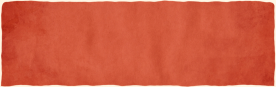
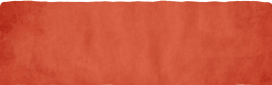
Rework: use Figma's torn-paper edges for panels, cards and stat boxes
Replaces the code-drawn borders with the real 3x art. The cream background Figma rendered behind each export is keyed out to true transparency (drop shadows kept). Panels are stored as a transparent PNG frame (torn edge and stroke) plus a JPEG fill clipped just inside the edge, which keeps sizes small. ParchmentPanel draws them as three slices so corners and top/bottom edges keep their true proportions and only the middle stretches. Codex uses the book (2242:596) and card (2242:605) art; Ledger uses the sheet art (2167:598) for every panel. Ability boxes follow Figma's structure: torn paper body (2167:686) with the red header (2167:658) over its top. Portrait placeholder (2167:647) is now a transparent PNG; the 3 dp ring stays.

Changed region(s): [[0.0, 0.0, 1.0, 1.0]]

diff --git a/src/screens/LedgerScreen.tsx b/src/screens/LedgerScreen.tsx
@@ -10,7 +10,6 @@ import {
   View,
   type StyleProp,
   type TextStyle,
-  type ViewStyle,
 } from "react-native";
 import * as ImagePicker from "expo-image-picker";
 import { StatusBar } from "expo-status-bar";
@@ -44,39 +43,51 @@ import { QuillIcon } from "../components/icons";
 import { colors, fonts, stroke, useAppFonts, useScale } from "../theme";
 
 const parchment = require("../../assets/images/backgrounds/parchment.png");
-const portraitArt = require("../../assets/images/ledger/portrait-placeholder.jpg");
+const portraitArt = require("../../assets/images/ledger/portrait-placeholder.png");
 const statHead = require("../../assets/images/ledger/stat-header.png");
-const statBody = require("../../assets/images/ledger/stat-body.jpg");
+const statBody = require("../../assets/images/ledger/stat-body.png");
 
-// Red textured header over a framed paper body, used for ability scores and
-// for the six ability scores.
+// Figma ability box (Group 873): torn paper body (2167:686, with its drop
+// shadow) and the red textured header (2167:658) laid over its top edge.
+// Art sizes are 3x pixels; the paper itself is 279 x 276 of the 292 x 296 body
+// export, the rest is the torn edge overhang and the shadow.
+const BODY = { w: 292, h: 296, paperX: 7, paperY: 1, paperW: 279, paperH: 276 };
+const HEAD = { w: 272, h: 85 };
+
 function StatFrame({
   label,
   children,
-  headHeight,
-  bodyHeight,
+  width,
   labelSize,
-  style,
 }: {
   label: string;
   children: ReactNode;
-  headHeight: number;
-  bodyHeight: number;
+  width: number;
   labelSize: number;
-  style?: StyleProp<ViewStyle>;
 }) {
+  const k = width / BODY.paperW;
+  const height = BODY.paperH * k;
+  const headH = width * (HEAD.h / HEAD.w);
   return (
-    <View style={[styles.statFrame, style]}>
-      <View style={[styles.statHead, { height: headHeight }]}>
+    <View style={{ width, height }}>
+      <Image
+        source={statBody}
+        style={{
+          position: "absolute",
+          left: -BODY.paperX * k,
+          top: -BODY.paperY * k,
+          width: BODY.w * k,
+          height: BODY.h * k,
+        }}
+        resizeMode="stretch"
+      />
+      <View style={[styles.statHead, { height: headH }]}>
         <Image source={statHead} style={styles.fill} resizeMode="stretch" />
         <Text style={[styles.statLabel, { fontSize: labelSize }]} numberOfLines={1}>
           {label}
         </Text>
       </View>
-      <View style={[styles.statBody, { height: bodyHeight }]}>
-        <Image source={statBody} style={styles.fill} resizeMode="stretch" />
-        {children}
-      </View>
+      <View style={styles.statValueBox}>{children}</View>
     </View>
   );
 }
@@ -397,8 +408,6 @@ export default function LedgerScreen({ onBack, onOpen }: Props) {
   const sheetPad = s(16);
   const statGap = s(14);
   const boxW = Math.floor((width - pagePad * 2 - sheetPad * 2 - 2 - statGap * 2) / 3);
-  const headH = Math.round(boxW * (28 / 91));
-  const bodyH = Math.round(boxW * (62 / 91));
   const edit = s(44);
   const portrait = s(152);
 
@@ -467,7 +476,7 @@ export default function LedgerScreen({ onBack, onOpen }: Props) {
     placeholder: string,
     empty: string,
   ) => (
-    <ParchmentPanel variant="card" style={{ marginTop: s(10) }} contentStyle={{ padding: s(16) }}>
+    <ParchmentPanel variant="ledger" style={{ marginTop: s(10) }} contentStyle={{ padding: s(16) }}>
       <SectionTitle size={fs(18)}>{title}</SectionTitle>
       {editing ? (
         <TextInput
@@ -497,7 +506,7 @@ export default function LedgerScreen({ onBack, onOpen }: Props) {
         contentContainerStyle={{ paddingHorizontal: pagePad, paddingTop: s(4), paddingBottom: s(24) }}
         keyboardShouldPersistTaps="handled"
       >
-        <ParchmentPanel contentStyle={{ paddingHorizontal: sheetPad, paddingTop: s(12), paddingBottom: s(14) }}>
+        <ParchmentPanel variant="ledger" contentStyle={{ paddingHorizontal: sheetPad, paddingTop: s(12), paddingBottom: s(14) }}>
           <View style={styles.nameRow}>
             <View style={{ width: edit }} />
             {editing ? (
@@ -649,14 +658,7 @@ export default function LedgerScreen({ onBack, onOpen }: Props) {
 
           <View style={[styles.stats, { columnGap: statGap, rowGap: s(14) }]}>
             {STATS.map(([key, label]) => (
-              <StatFrame
-                key={key}
-                label={label}
-                headHeight={headH}
-                bodyHeight={bodyH}
-                labelSize={fs(15)}
-                style={{ width: boxW }}
-              >
+              <StatFrame key={key} label={label} width={boxW} labelSize={fs(15)}>
                 {editing ? (
                   <TextInput
                     style={[styles.statInput, { fontSize: fs(26) }]}
@@ -672,7 +674,7 @@ export default function LedgerScreen({ onBack, onOpen }: Props) {
           </View>
         </ParchmentPanel>
 
-        <ParchmentPanel style={{ marginTop: s(10) }} contentStyle={{ padding: s(18), minHeight: s(120) }}>
+        <ParchmentPanel variant="ledger" style={{ marginTop: s(10) }} contentStyle={{ padding: s(18), minHeight: s(120) }}>
           <SectionTitle center size={fs(18)}>
             Background
           </SectionTitle>
@@ -693,7 +695,7 @@ export default function LedgerScreen({ onBack, onOpen }: Props) {
           )}
         </ParchmentPanel>
 
-        <ParchmentPanel variant="card" style={{ marginTop: s(10) }} contentStyle={{ padding: s(16) }}>
+        <ParchmentPanel variant="ledger" style={{ marginTop: s(10) }} contentStyle={{ padding: s(16) }}>
           <SectionTitle size={fs(18)}>Skills</SectionTitle>
           {editing ? (
             <View style={[styles.chips, { gap: s(6) }]}>
@@ -716,7 +718,7 @@ export default function LedgerScreen({ onBack, onOpen }: Props) {
         {textSection("Languages", draft.languages, "languages", "Common, Elvish", "None listed.")}
         {textSection("Features", draft.features, "features", "Class features, fighting style, spells", "None yet.")}
 
-        <ParchmentPanel variant="card" style={{ marginTop: s(10) }} contentStyle={{ padding: s(16) }}>
+        <ParchmentPanel variant="ledger" style={{ marginTop: s(10) }} contentStyle={{ padding: s(16) }}>
           <SectionTitle size={fs(18)}>Equipment</SectionTitle>
           {gear.length === 0 ? (
             <Text style={[styles.listItem, styles.listEmpty, { fontSize: fs(16), lineHeight: fs(26) }]}>Nothing carried.</Text>
@@ -725,7 +727,7 @@ export default function LedgerScreen({ onBack, onOpen }: Props) {
           {editing ? addRow(gearName, setGearName, "Add equipment", addGear) : null}
         </ParchmentPanel>
 
-        <ParchmentPanel variant="card" style={{ marginTop: s(10) }} contentStyle={{ padding: s(16) }}>
+        <ParchmentPanel variant="ledger" style={{ marginTop: s(10) }} contentStyle={{ padding: s(16) }}>
           <SectionTitle size={fs(18)}>Traits</SectionTitle>
           {traits.length === 0 ? (
             <Text style={[styles.listItem, styles.listEmpty, { fontSize: fs(16), lineHeight: fs(26) }]}>No traits yet.</Text>
@@ -828,30 +830,16 @@ const styles = StyleSheet.create({
   hpSlash: { fontFamily: fonts.body, color: colors.ink, fontSize: 18 },
   rule: { height: 1, backgroundColor: colors.ink, marginTop: 10, marginBottom: 12 },
   stats: { flexDirection: "row", flexWrap: "wrap", justifyContent: "center" },
-  statFrame: {
-    shadowColor: "#000",
-    shadowOpacity: 0.2,
-    shadowRadius: 2,
-    shadowOffset: { width: 0, height: 2 },
-  },
   statHead: {
-    borderTopLeftRadius: 2,
-    borderTopRightRadius: 2,
-    overflow: "hidden",
+    position: "absolute",
+    top: 0,
+    left: 0,
+    right: 0,
     alignItems: "center",
     justifyContent: "center",
   },
   statLabel: { fontFamily: fonts.heading, color: colors.statLabel, textAlign: "center", letterSpacing: 0.6 },
-  statBody: {
-    borderWidth: 1,
-    borderTopWidth: 0,
-    borderColor: colors.statStroke,
-    overflow: "hidden",
-    alignItems: "center",
-    justifyContent: "center",
-    elevation: 2,
-    backgroundColor: "#F2ECE3",
-  },
+  statValueBox: { flex: 1, marginTop: "31%", alignItems: "center", justifyContent: "center" },
   statValue: { fontFamily: fonts.stat, color: colors.ink, textAlign: "center", includeFontPadding: false },
   statInput: {
     fontFamily: fonts.stat,

diff --git a/src/components/ParchmentPanel.tsx b/src/components/ParchmentPanel.tsx
@@ -1,43 +1,131 @@
-import type { ReactNode } from "react";
-import { Image, StyleSheet, View, type StyleProp, type ViewStyle } from "react-native";
-import { colors, radius } from "../theme";
+import { useState, type ReactNode } from "react";
+import {
+  Image,
+  StyleSheet,
+  View,
+  type ImageSourcePropType,
+  type LayoutChangeEvent,
+  type StyleProp,
+  type ViewStyle,
+} from "react-native";
 
-const textures = {
-  panel: require("../../assets/images/panels/panel-parchment.jpg"),
-  card: require("../../assets/images/panels/card-paper.jpg"),
-};
+// Torn-paper panels exported from Figma at 3x. Each one is split in two files
+// to keep the size down:
+//  - frame: PNG with real transparency, holding the torn edge, stroke and a
+//    band of texture just inside it (the middle is empty);
+//  - fill: JPEG of the same art, drawn underneath and clipped just inside the
+//    edge so its cream export background never shows.
+// Width/height are the art size in dp (pixels / 3).
+type Art = { frame: ImageSourcePropType; fill: ImageSourcePropType; width: number; height: number };
 
-const strokes = {
-  panel: colors.panelStroke,
-  card: colors.cardStroke,
-};
+const ART = {
+  // Codex book, Figma 2242:596
+  codex: {
+    frame: require("../../assets/images/panels/panel-codex-frame.png"),
+    fill: require("../../assets/images/panels/panel-codex-fill.jpg"),
+    width: 963 / 3,
+    height: 1818 / 3,
+  },
+  // Codex note card, Figma 2242:605
+  card: {
+    frame: require("../../assets/images/panels/card-codex-frame.png"),
+    fill: require("../../assets/images/panels/card-codex-fill.jpg"),
+    width: 898 / 3,
+    height: 427 / 3,
+  },
+  // Ledger sheet and section panels, Figma 2167:598
+  ledger: {
+    frame: require("../../assets/images/panels/panel-ledger-frame.png"),
+    fill: require("../../assets/images/panels/panel-ledger-fill.jpg"),
+    width: 1010 / 3,
+    height: 1555 / 3,
+  },
+} satisfies Record<string, Art>;
+
+// Top and bottom bands (in art dp) drawn at their true proportions. Only the
+// middle band stretches vertically, so corners and the top/bottom torn edges
+// never distort. Width always scales evenly with the panel width.
+const CAP = 14;
+// How far inside the outer edge the JPEG fill starts. The frame's opaque band
+// covers this seam (the torn edge is at most about 2 dp deep).
+const FILL_INSET = 3;
+
+type Size = { w: number; h: number };
+
+function Slices({ source, art, size }: { source: ImageSourcePropType; art: Art; size: Size }) {
+  const { w, h } = size;
+  const k = w / art.width; // dp on screen per art dp, applied evenly in width
+  const cap = Math.min(CAP * k, h / 2); // on-screen cap height
+  const capArt = cap / k;
+  const midH = Math.max(0, h - cap * 2);
+  const midArt = art.height - capArt * 2;
+  const sy = midArt > 0 ? midH / midArt : 1; // vertical stretch for the middle band only
+  const fullH = art.height * k;
+
+  return (
+    <>
+      <View style={[styles.slice, { top: 0, height: cap }]}>
+        <Image source={source} style={{ position: "absolute", top: 0, left: 0, width: w, height: fullH }} resizeMode="stretch" />
+      </View>
+      {midH > 0 ? (
+        <View style={[styles.slice, { top: cap, height: midH }]}>
+          <Image
+            source={source}
+            style={{ position: "absolute", top: -capArt * sy, left: 0, width: w, height: art.height * sy }}
+            resizeMode="stretch"
+          />
+        </View>
+      ) : null}
+      <View style={[styles.slice, { top: h - cap, height: cap }]}>
+        <Image
+          source={source}
+          style={{ position: "absolute", top: cap - fullH, left: 0, width: w, height: fullH }}
+          resizeMode="stretch"
+        />
+      </View>
+    </>
+  );
+}
 
 type Props = {
-  /** panel = warm parchment (Codex book, Ledger sheet). card = pale paper (Codex cards, Ledger lists). */
-  variant?: keyof typeof textures;
+  /** codex = Codex book, card = Codex note card, ledger = Ledger sheet and sections. */
+  variant?: keyof typeof ART;
   children?: ReactNode;
   style?: StyleProp<ViewStyle>;
   contentStyle?: StyleProp<ViewStyle>;
 };
 
-// Parchment surface from Figma: texture stretched behind the content and a
-// crisp 1 dp border drawn in code, so it stays sharp at any size.
-export default function ParchmentPanel({ variant = "panel", children, style, contentStyle }: Props) {
+export default function ParchmentPanel({ variant = "codex", children, style, contentStyle }: Props) {
+  const art: Art = ART[variant];
+  const [size, setSize] = useState<Size | null>(null);
+
+  const onLayout = (event: LayoutChangeEvent) => {
+    const { width, height } = event.nativeEvent.layout;
+    if (!size || Math.abs(size.w - width) > 0.5 || Math.abs(size.h - height) > 0.5) setSize({ w: width, h: height });
+  };
+
+  const inset = size ? FILL_INSET * (size.w / art.width) : 0;
+
   return (
-    <View style={[styles.box, { borderColor: strokes[variant] }, style]}>
-      <Image source={textures[variant]} style={styles.texture} resizeMode="stretch" />
+    <View style={style} onLayout={onLayout}>
+      {size ? (
+        <View style={styles.art} pointerEvents="none">
+          <View style={[styles.fillClip, { top: inset, left: inset, right: inset, bottom: inset, borderRadius: inset * 2 }]}>
+            <View style={{ position: "absolute", top: -inset, left: -inset, width: size.w, height: size.h }}>
+              <Slices source={art.fill} art={art} size={size} />
+            </View>
+          </View>
+          <Slices source={art.frame} art={art} size={size} />
+        </View>
+      ) : null}
       <View style={[styles.content, contentStyle]}>{children}</View>
     </View>
   );
 }
 
 const styles = StyleSheet.create({
-  box: {
-    borderWidth: 1,
-    borderRadius: radius.panel,
-    backgroundColor: colors.panel,
-    overflow: "hidden",
-  },
-  texture: { position: "absolute", top: 0, right: 0, bottom: 0, left: 0, width: "100%", height: "100%" },
+  art: { position: "absolute", top: 0, right: 0, bottom: 0, left: 0 },
+  fillClip: { position: "absolute", overflow: "hidden" },
+  slice: { position: "absolute", left: 0, right: 0, overflow: "hidden" },
   content: { flexGrow: 1 },
 });

diff --git a/src/screens/CodexScreen.tsx b/src/screens/CodexScreen.tsx
@@ -223,7 +223,6 @@ export default function CodexScreen({ onBack, onOpen }: Props) {
             >
               <ParchmentPanel
                 variant="card"
-                style={styles.cardShadow}
                 contentStyle={[styles.card, { minHeight: s(132), padding: s(12), paddingBottom: s(10) }]}
               >
                 <View style={[styles.cardTop, { gap: s(8) }]}>
@@ -288,13 +287,6 @@ const styles = StyleSheet.create({
   scroll: { flex: 1 },
   empty: { fontFamily: fonts.body, color: colors.muted, textAlign: "center", marginTop: 18 },
   link: { color: colors.wordmark },
-  cardShadow: {
-    shadowColor: "#000",
-    shadowOpacity: 0.18,
-    shadowRadius: 3,
-    shadowOffset: { width: 0, height: 2 },
-    elevation: 2,
-  },
   cardPressed: { opacity: 0.85 },
   card: { justifyContent: "space-between" },
   cardTop: { flexDirection: "row", alignItems: "flex-start" },

diff --git a/README.md b/README.md
@@ -181,8 +181,8 @@ assets/
     backgrounds/        parchment.png
     buttons/            btn-circle-red@3x.png
     icons/              icon-quill@3x.png, icon-chevron-left.svg, icon-chevron-down.svg
-    panels/             panel-parchment@3x.jpg, card-paper@3x.jpg
-    ledger/             stat-header, stat-body, portrait-placeholder (3x)
+    panels/             torn-paper panels as frame (PNG, transparent) + fill (JPEG) pairs, 3x
+    ledger/             stat-header, stat-body, portrait-placeholder (3x PNG, transparent)
   Fire/                 orb flame frames
   Sage/                 orb model
 supabase/
